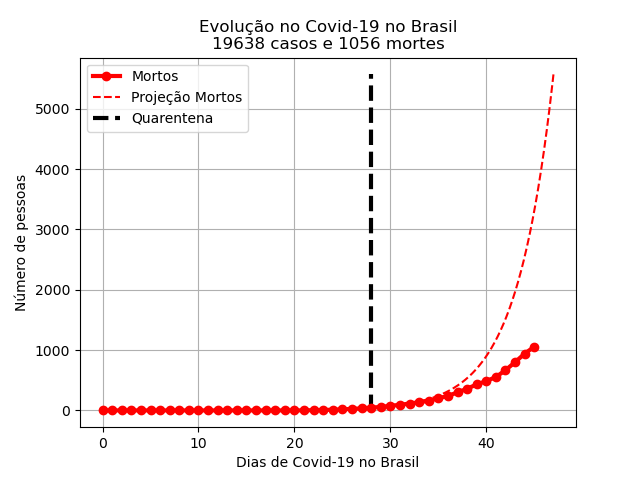
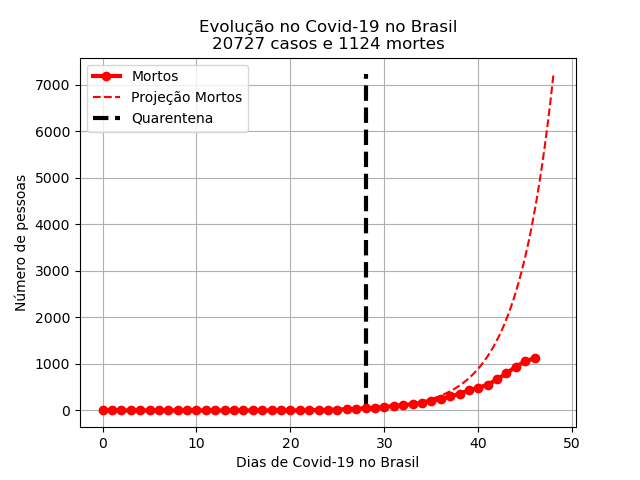
update covid

diff --git a/covid-19.html b/covid-19.html
@@ -102,7 +102,7 @@
     <div class="main">
         <h1> Acompanhe a evolução do Covid-19 no Brasil </h1>
 
-        <p>Atualização: 10/04/2020</p>
+        <p>Atualização: 11/04/2020</p>
         <p> A pandemia de coronavírus está evoluindo ao redor do mundo. No Brasil os casos estão aumentando a cada dia. Medidas de contenção estão sendo empregadas para evitar que o número de infectados aumente. Veja como está a evolução no gráfico a seguir.</p>
         
         <a class="aulaImg"><img class="aula" src="images/covid19.png"></a>
